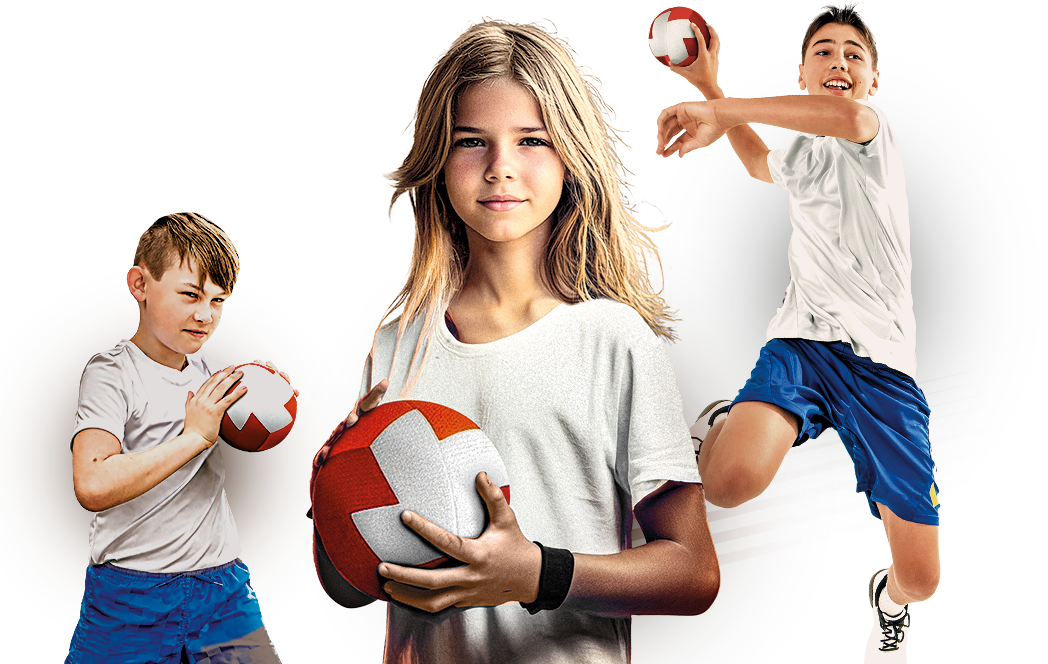
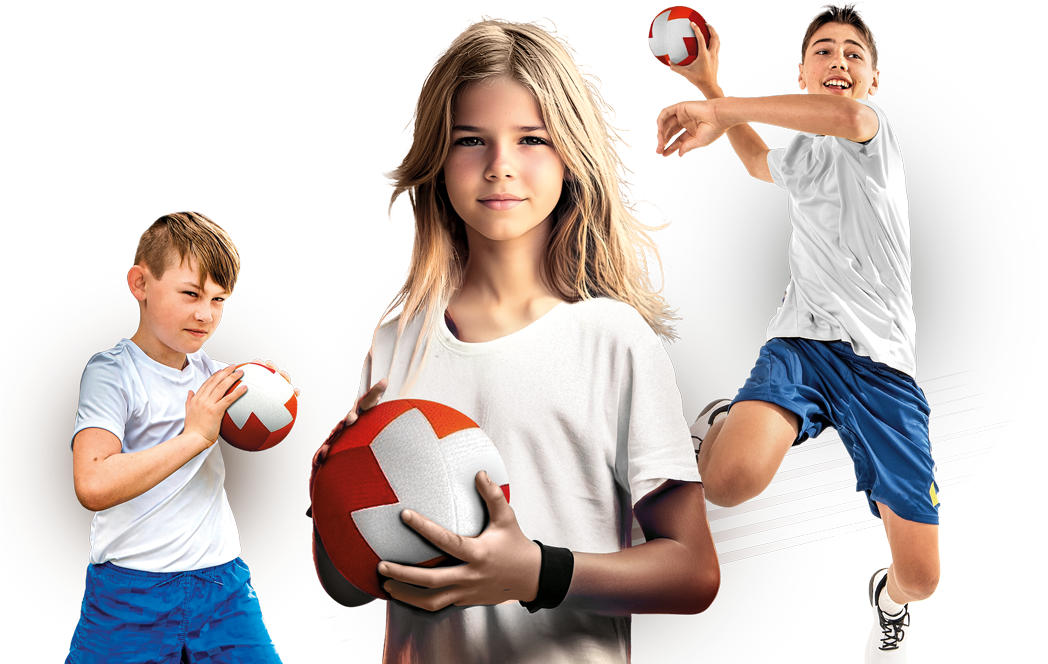
steps

diff --git a/blocks/steps/steps.min.css b/blocks/steps/steps.min.css
@@ -1,1 +1,1 @@
-:root{--main: #221b48;--main1: #eb6608;--black: #000000;--light-black: #232323;--body: #f5f5f5;--gray: #e4e8f0;--light: #fafafc;--white: #fff}.b-steps{position:relative;display:flex;justify-content:space-between;gap:50px}@media only screen and (max-width: 768px){.b-steps{gap:10px}}@media only screen and (max-width: 768px){.b-steps{flex-wrap:wrap;gap:0}}.b-steps:before{content:"";position:absolute;z-index:-1;left:50%;transform:translate(-50%, 0);top:40px;width:70%;height:5px;background-color:#f4f4f4}@media only screen and (max-width: 460px){.b-steps:before{display:none}}.b-steps .b-step{position:relative;width:33.33%;padding:0 20px}@media only screen and (max-width: 460px){.b-steps .b-step{width:100%}}.b-steps .b-step:before{display:none;content:"";position:absolute;z-index:-1;left:50%;transform:translate(-50%, 0);top:40px;width:70%;height:5px;background-color:#f4f4f4}@media only screen and (max-width: 460px){.b-steps .b-step:before{display:block}}.b-steps .b-step__number{font-family:"Bebas Neue",sans-serif;font-weight:400;font-size:80px;font-style:normal;justify-self:center;display:flex;background-color:var(--white);padding:0 50px;color:var(--main)}@media only screen and (max-width: 460px){.b-steps .b-step__number{padding:0 15px}}.b-steps .b-step__title h3{text-align:center;font-size:36px;color:var(--main1)}@media only screen and (max-width: 768px){.b-steps .b-step__title h3{font-size:21px}}/*# sourceMappingURL=steps.min.css.map */
+:root{--main: #221b48;--main1: #eb6608;--black: #000000;--light-black: #232323;--body: #f5f5f5;--gray: #e4e8f0;--light: #fafafc;--white: #fff}.b-steps{position:relative;display:flex;justify-content:space-between}@media only screen and (max-width: 998px){.b-steps{flex-wrap:wrap;gap:0}}.b-steps:before{content:"";position:absolute;z-index:-1;left:50%;transform:translate(-50%, 0);top:40px;width:70%;height:5px;background-color:#f4f4f4}@media only screen and (max-width: 998px){.b-steps:before{display:none}}.b-steps .b-step{position:relative;width:16.66%;padding:0 20px}@media only screen and (max-width: 998px){.b-steps .b-step{width:50%}}@media only screen and (max-width: 768px){.b-steps .b-step{width:100%}}.b-steps .b-step:before{display:none;content:"";position:absolute;z-index:-1;left:50%;transform:translate(-50%, 0);top:40px;width:70%;height:5px;background-color:#f4f4f4}@media only screen and (max-width: 460px){.b-steps .b-step:before{display:block}}.b-steps .b-step__number{font-family:"Bebas Neue",sans-serif;font-weight:400;font-size:80px;font-style:normal;justify-self:center;display:flex;background-color:var(--white);padding:0 50px;color:var(--main)}@media only screen and (max-width: 460px){.b-steps .b-step__number{padding:0 15px}}.b-steps .b-step__title h3{text-align:center;font-size:31px;color:var(--main1)}@media only screen and (max-width: 768px){.b-steps .b-step__title h3{font-size:21px}}/*# sourceMappingURL=steps.min.css.map */

diff --git a/blocks/steps/steps.css b/blocks/steps/steps.css
@@ -13,14 +13,8 @@
   position: relative;
   display: flex;
   justify-content: space-between;
-  gap: 50px;
 }
-@media only screen and (max-width: 768px) {
-  .b-steps {
-    gap: 10px;
-  }
-}
-@media only screen and (max-width: 768px) {
+@media only screen and (max-width: 998px) {
   .b-steps {
     flex-wrap: wrap;
     gap: 0;
@@ -37,17 +31,22 @@
   height: 5px;
   background-color: #f4f4f4;
 }
-@media only screen and (max-width: 460px) {
+@media only screen and (max-width: 998px) {
   .b-steps:before {
     display: none;
   }
 }
 .b-steps .b-step {
   position: relative;
-  width: 33.33%;
+  width: 16.66%;
   padding: 0 20px;
 }
-@media only screen and (max-width: 460px) {
+@media only screen and (max-width: 998px) {
+  .b-steps .b-step {
+    width: 50%;
+  }
+}
+@media only screen and (max-width: 768px) {
   .b-steps .b-step {
     width: 100%;
   }
@@ -87,7 +86,7 @@
 }
 .b-steps .b-step__title h3 {
   text-align: center;
-  font-size: 36px;
+  font-size: 31px;
   color: var(--main1);
 }
 @media only screen and (max-width: 768px) {

diff --git a/blocks/steps/steps.scss b/blocks/steps/steps.scss
@@ -4,11 +4,8 @@
   display: flex;
   justify-content: space-between;
   //   flex-wrap: wrap;
-  gap: 50px;
-  @media #{$sm} {
-    gap: 10px;
-  }
-  @media #{$sm} {
+
+  @media #{$md} {
     flex-wrap: wrap;
     gap: 0;
   }
@@ -22,15 +19,18 @@
     width: 70%;
     height: 5px;
     background-color: #f4f4f4;
-    @media #{$xs} {
+    @media #{$md} {
       display: none;
     }
   }
   .b-step {
     position: relative;
-    width: 33.33%;
+    width: 16.66%;
     padding: 0 20px;
-    @media #{$xs} {
+    @media #{$md} {
+      width: 50%;
+    }
+    @media #{$sm} {
       width: 100%;
     }
     &:before {
@@ -66,7 +66,7 @@
   }
   .b-step__title h3 {
     text-align: center;
-    font-size: 36px;
+    font-size: 31px;
     color: var(--main1);
     @media #{$sm} {
       font-size: 21px;
